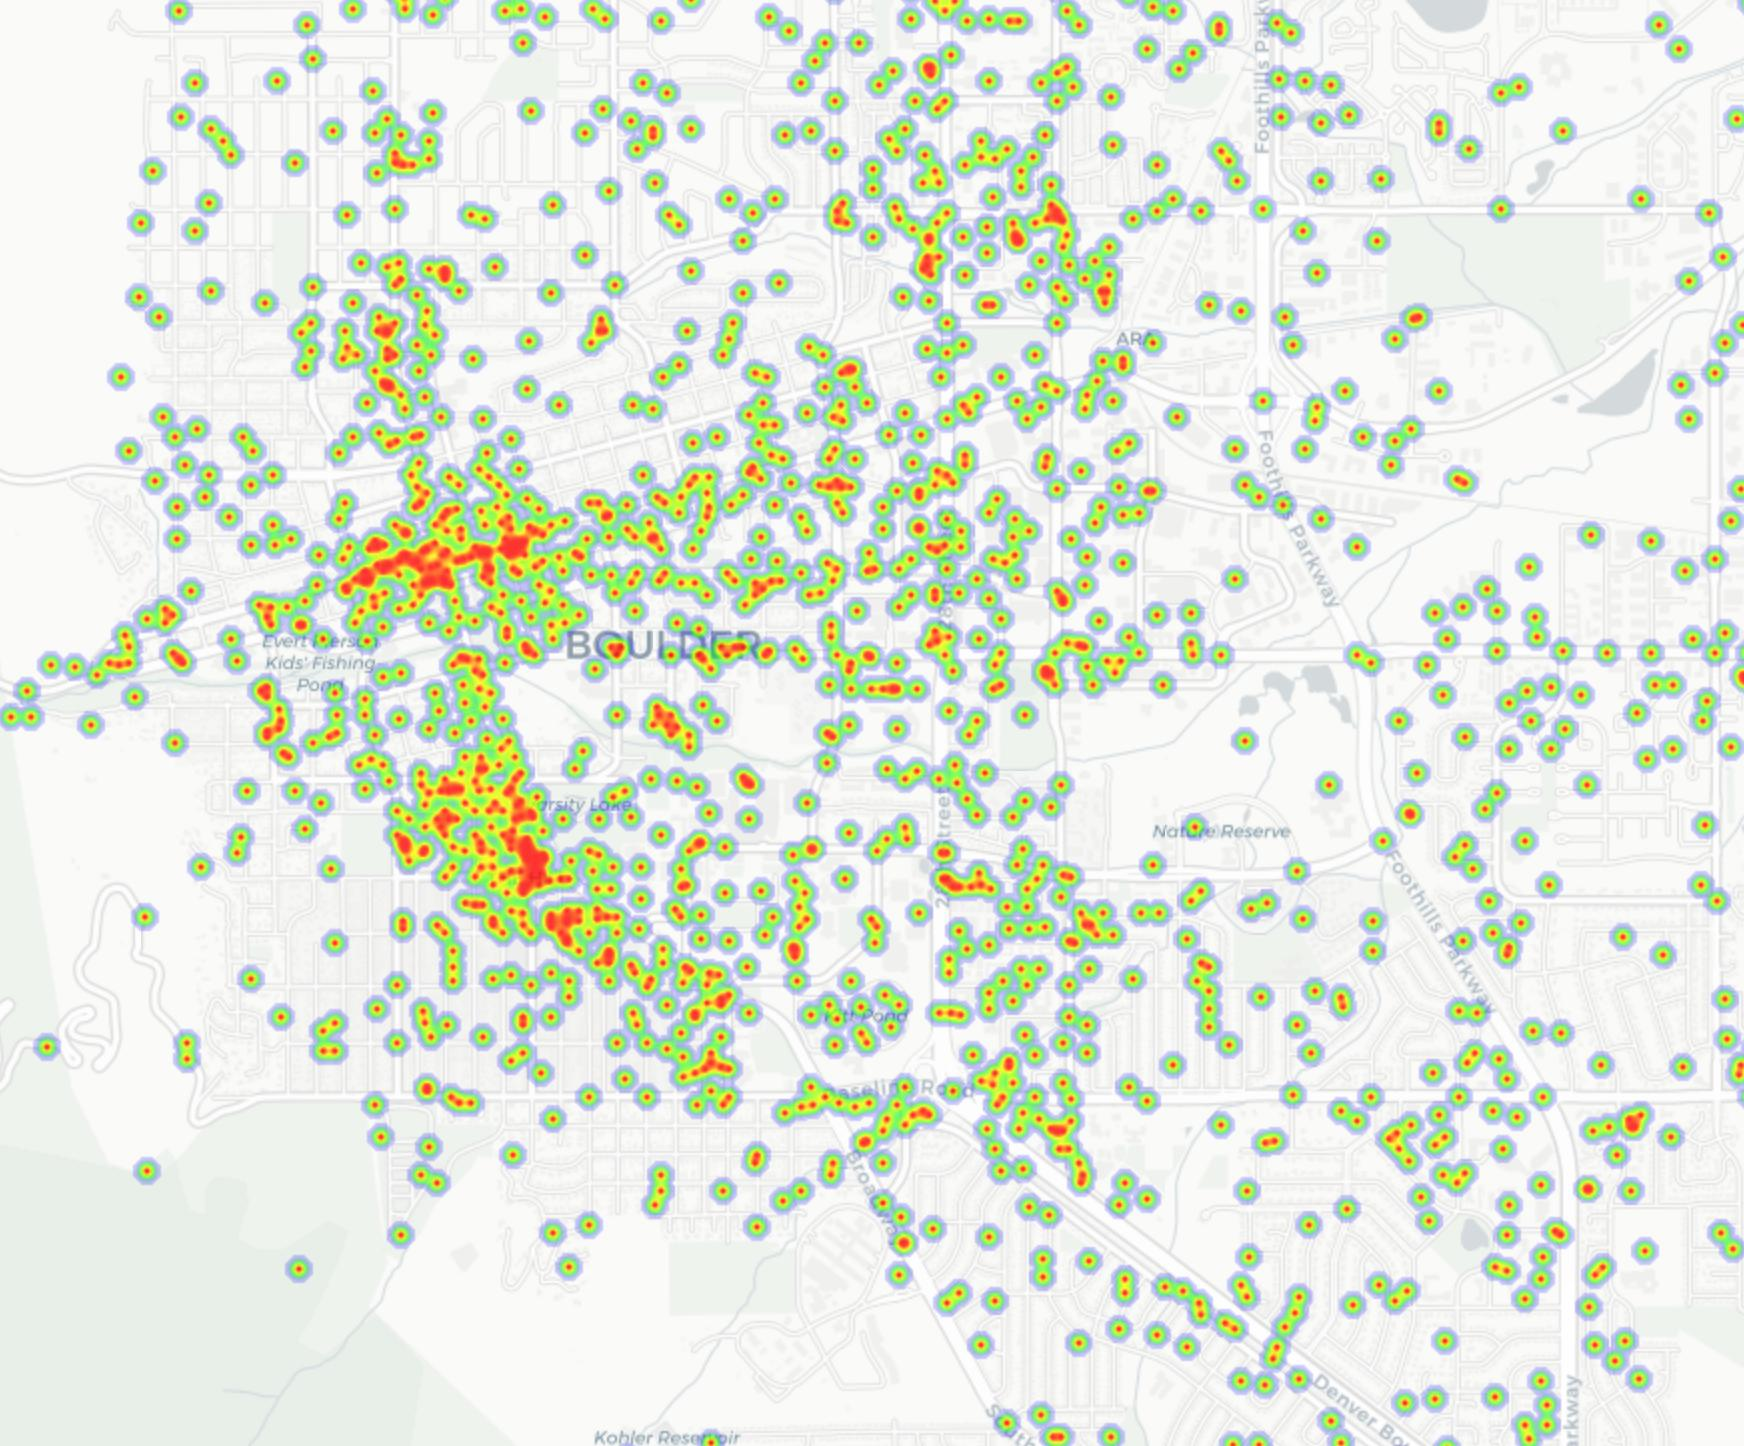
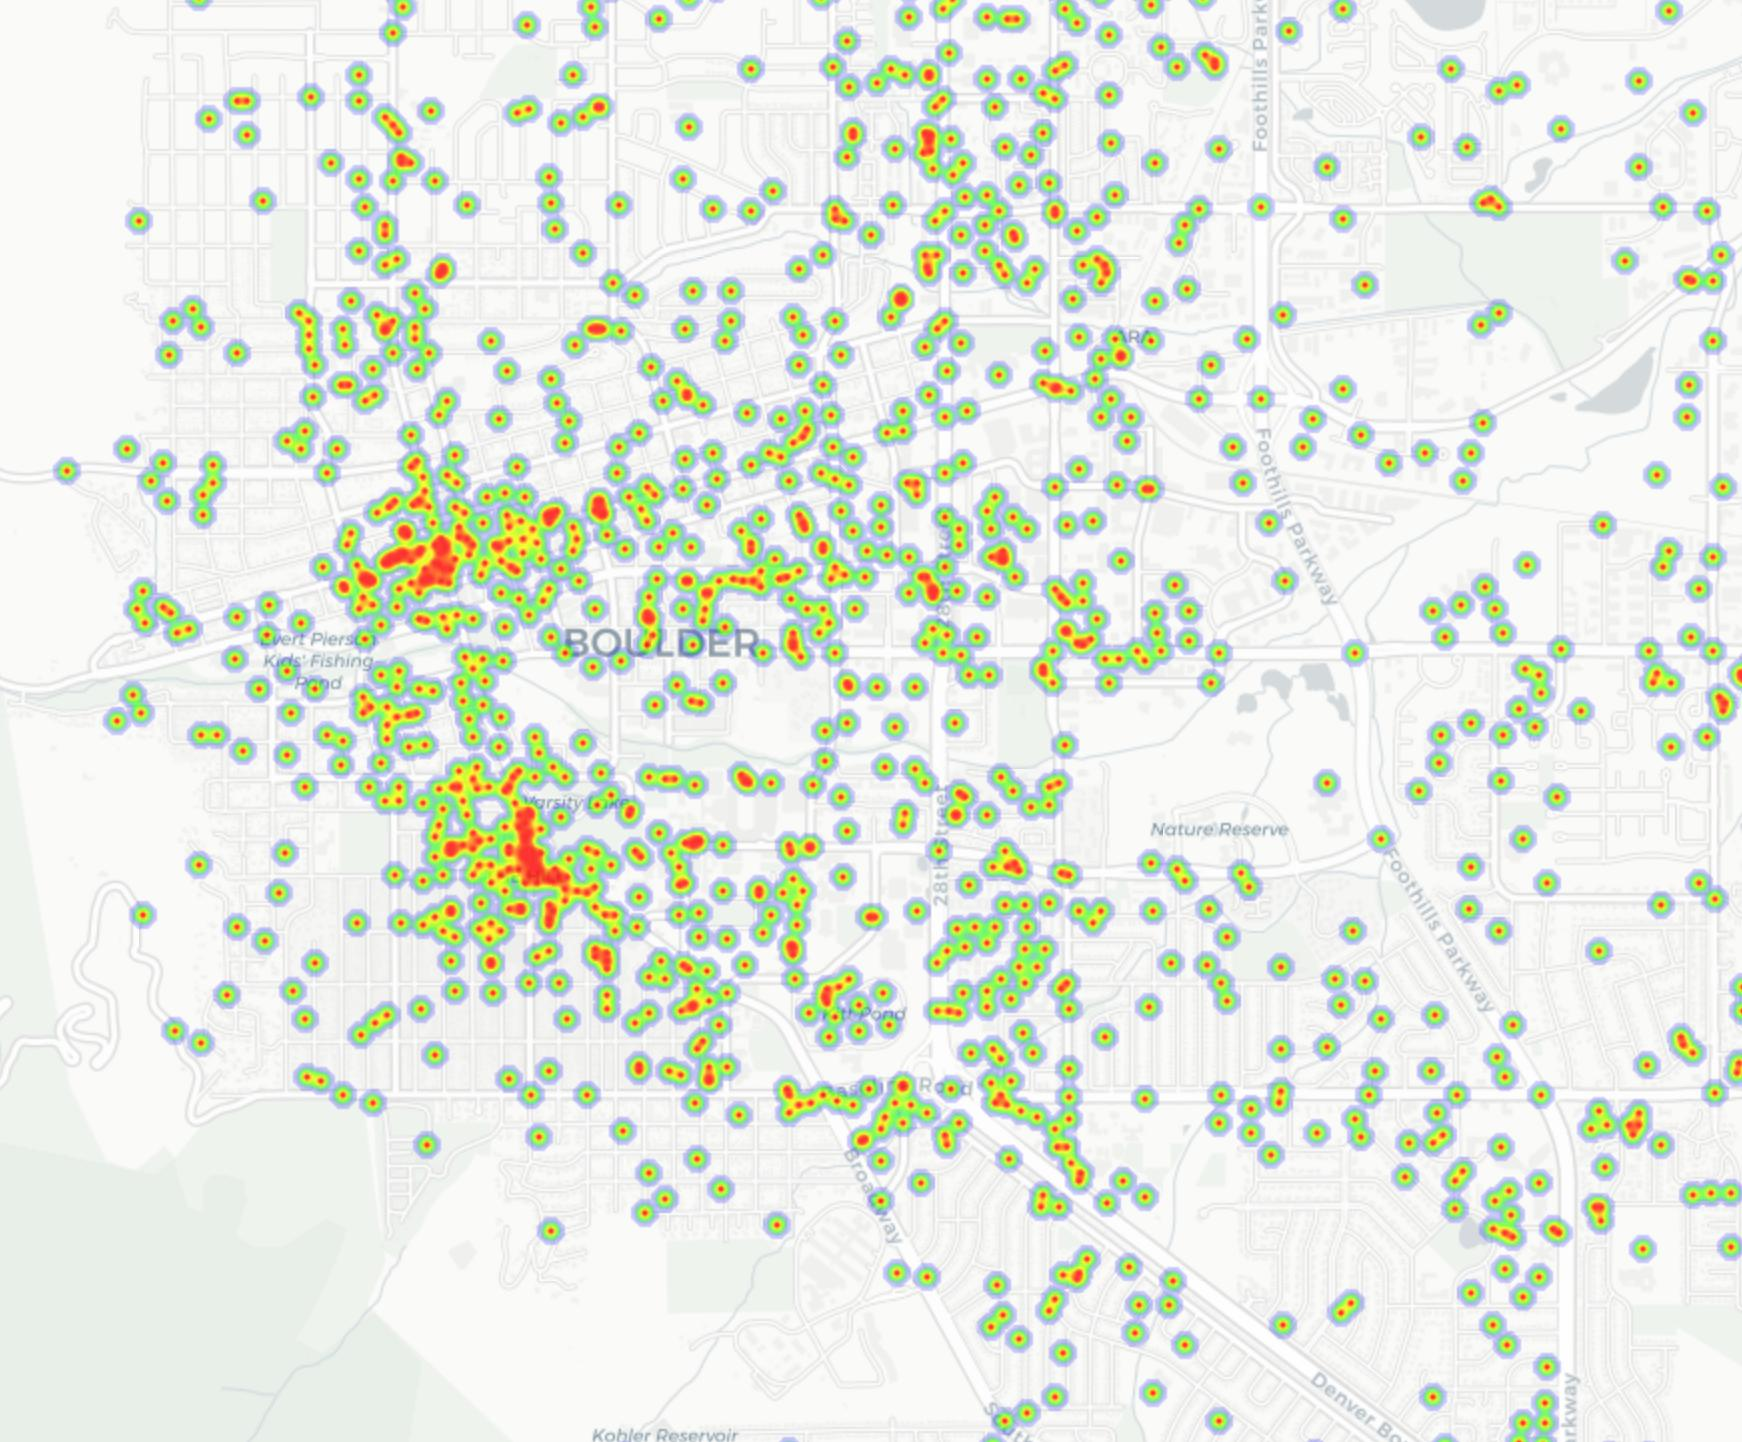
Updated the gif

diff --git a/README.md b/README.md
@@ -35,7 +35,13 @@ Of those incidents, the vast majority were responses to Emergency Medical Servic
 
 I was curious to see when the BFD receives the highest volume of calls over the course of the week. I anticipated seeing a higher concentration of calls from Thursday-Saturday, with noticeable peaks in the evenings. As demonstrated in the following kernal density estimation (KDE), those assumptions do not prove to be true. There is a noticeable trend as the week continues for there to be more incidents in the very early morning (i.e. 12-2AM), but there appears to be a higher concentration of incidents between normal wakeful hours from Sunday-Thursday.
 
-<img alt="KDE of hour and day" src='images/kde_plot_DoW_Year.png' width=500> 
+<img alt="KDE of hour and day" src='images/kde_plot_DoW_Year.png' width=500>
+
+###  How does time of day influence response time?
+
+I then looked at how long it took for the responding unit to depart the station at different times of the day as a measure of response time. For this figure, I only included the incidents where firefighters were responding from a station, and not already on scene of a different incident. No surprise, they took longer to depart during the late morning hours.
+
+<img alt="Response time by hour" src='images/average_response_time_per_hour.png' width=500> 
 
 Next I wanted to view the the incidents per month to ascertain if there were more incidents in any particular season. When investigating monthly incident rates, an interesting pattern appeared.
 
@@ -55,6 +61,13 @@ While this next figure has a lot going on, it demonstrates that during the month
 
 Interestingly, while the EMS calls seem to account for nearly the total increase in incidents witnessed from August-October, the percentage of calls for each response area stay practically the same as demonstrated in another figure not included here.
 
+Per Month Responses by Program Area:
+- EMS ~ 77-80%
+- Fire ~ 16-20%
+- Hazmat ~ 2-3%
+- Rescue ~ 1%
+- Mutual Aid < 1%
+
 ### So where are these extra incidents occurring?
 
 Instead of trying to use the provided latitude and longitude for each incident, and taking the time to reseach each closest intersection or landmark, I decided to utilize a heat map to illuminate the answer.
@@ -70,10 +83,10 @@ To get a better idea of where the increased volume of incidents is occurring dur
 If you take the time to download the time series and run it, what you will notice is that starting in August, the area surrounding the university has a noticeable uptick in incidents as demonstrated by this image.
 
 ### June
-<img alt="BFD_heatmap timeseries" src='images/folium_images_4_gif/image06.jpg' width=600>
+<img alt="BFD_heatmap timeseries" src='images/folium_images_4_gif/image31.jpg' width=600>
 
 ### October
-<img alt="BFD_heatmap timeseries" src='images/folium_images_4_gif/image10.jpg' width=600>
+<img alt="BFD_heatmap timeseries" src='images/folium_images_4_gif/image46.jpg' width=600>
 
 This appears to indicate that the increase in incidents witnessed throughout the Fall coincides with the university being back in session, and perhaps that students are returning to town.
 
